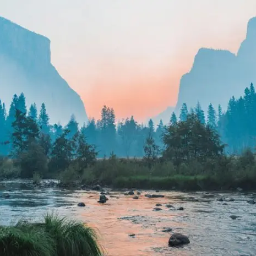
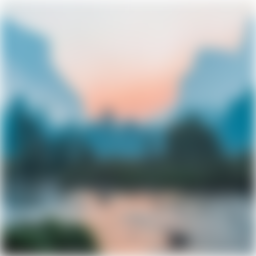
demo: Add sphere map example

Changed region(s): [[0.0, 0.0625, 1.0, 1.0], [0.0, 0.0, 0.0312, 0.0312]]

diff --git a/src/scenes/shaded_cube.c b/src/scenes/shaded_cube.c
@@ -1,6 +1,6 @@
 /*
  * Textured cube with per-vertex Lambert shading via a colormap LUT.
- * The marble texture's palette is uploaded to the DAC and a 64×256
+ * The texture texture's palette is uploaded to the DAC and a 64×256
  * colormap is precomputed at setup so the rasterizer can shade each
  * texel with a single byte lookup — no per-pixel multiply.
  */
@@ -31,7 +31,7 @@ static const Camera3D camera = {
 #define LIGHT_Z (int)(0.82 * FP_ONE)
 
 static Model *cube;
-static Texture *marble;
+static Texture *texture;
 static Colormap *colormap;
 static int *transformed;        /* num_tris * 9 (positions) */
 static int *transformed_fnorms; /* num_tris * 3 (face normals, for cull) */
@@ -53,11 +53,11 @@ static int lambert(const int *n)
 
 static void setup(void)
 {
-  cube = polyhedron_create(POLYHEDRON_CUBE, 0, 0);
-  marble = texture_load(ASSET_MARBLE_BMP);
+  cube = polyhedron_create(POLYHEDRON_CUBE, 0, 0, 0);
+  texture = texture_load(ASSET_MARBLE_BMP);
   /* Colormap is 16 KB — heap is fine. */
   colormap = (Colormap *)malloc(sizeof(Colormap));
-  colormap_build(colormap, &marble->palette);
+  colormap_build(colormap, &texture->palette);
   num_tris = cube->num_triangles;
   transformed = (int *)malloc(num_tris * 9 * sizeof(int));
   transformed_fnorms = (int *)malloc(num_tris * 3 * sizeof(int));
@@ -68,15 +68,15 @@ static void setup(void)
 static void init(const RenderContext *ctx)
 {
   (void)ctx;
-  palette_apply(&marble->palette);
+  palette_apply(&texture->palette);
 }
 
 static void shutdown(void)
 {
   model_free(cube);
   cube = NULL;
-  texture_free(marble);
-  marble = NULL;
+  texture_free(texture);
+  texture = NULL;
   free(colormap);
   colormap = NULL;
   free(transformed);
@@ -124,7 +124,7 @@ static void render(const RenderContext *ctx)
                                    sx0, sy0, v[2], uv[0], uv[1], lambert(vn + 0),
                                    sx1, sy1, v[5], uv[2], uv[3], lambert(vn + 3),
                                    sx2, sy2, v[8], uv[4], uv[5], lambert(vn + 6),
-                                   marble, colormap);
+                                   texture, colormap);
   }
 
   font_draw(&font_default, backbuffer, 4, 4, 255, "shaded_cube.c");

diff --git a/src/scenes/spheremap_orb.h b/src/scenes/spheremap_orb.h
@@ -1,0 +1,8 @@
+#ifndef SPHEREMAP_ORB_H
+#define SPHEREMAP_ORB_H
+
+#include <scene.h>
+
+extern const Scene spheremap_orb_scene;
+
+#endif

diff --git a/src/demo.c b/src/demo.c
@@ -6,6 +6,7 @@
 #include "scenes/plasma.h"
 #include "scenes/polyhedra.h"
 #include "scenes/shaded_cube.h"
+#include "scenes/spheremap_orb.h"
 #include "scenes/textured_cube.h"
 #include "scenes/tunnel.h"
 #include "utils/timing.h"
@@ -20,6 +21,7 @@ TimelineEntry demo_timeline[] = {
     {&model_gouraud_scene, XM_MS(BPM, SPEED, PATTERN_LEN * 2)},
     {&textured_cube_scene, XM_MS(BPM, SPEED, PATTERN_LEN * 2)},
     {&shaded_cube_scene, XM_MS(BPM, SPEED, PATTERN_LEN * 2)},
+    {&spheremap_orb_scene, XM_MS(BPM, SPEED, PATTERN_LEN * 2)},
     {&polyhedra_scene, XM_MS(BPM, SPEED, PATTERN_LEN * 2)},
     {&plasma_scene, XM_MS(BPM, SPEED, PATTERN_LEN * 2)},
     {&tunnel_scene, XM_MS(BPM, SPEED, PATTERN_LEN * 2)},

diff --git a/src/scenes/polyhedra.c b/src/scenes/polyhedra.c
@@ -69,7 +69,7 @@ static void polyhedra_setup(void)
   for (i = 0; i < NUM_SHAPES; i++)
   {
     models[i] = polyhedron_create(SHAPES[i].kind, SHAPES[i].extrude,
-                                  SHAPES[i].scale);
+                                  SHAPES[i].scale, 0);
     if (models[i] && models[i]->num_triangles > max_tris)
       max_tris = models[i]->num_triangles;
   }